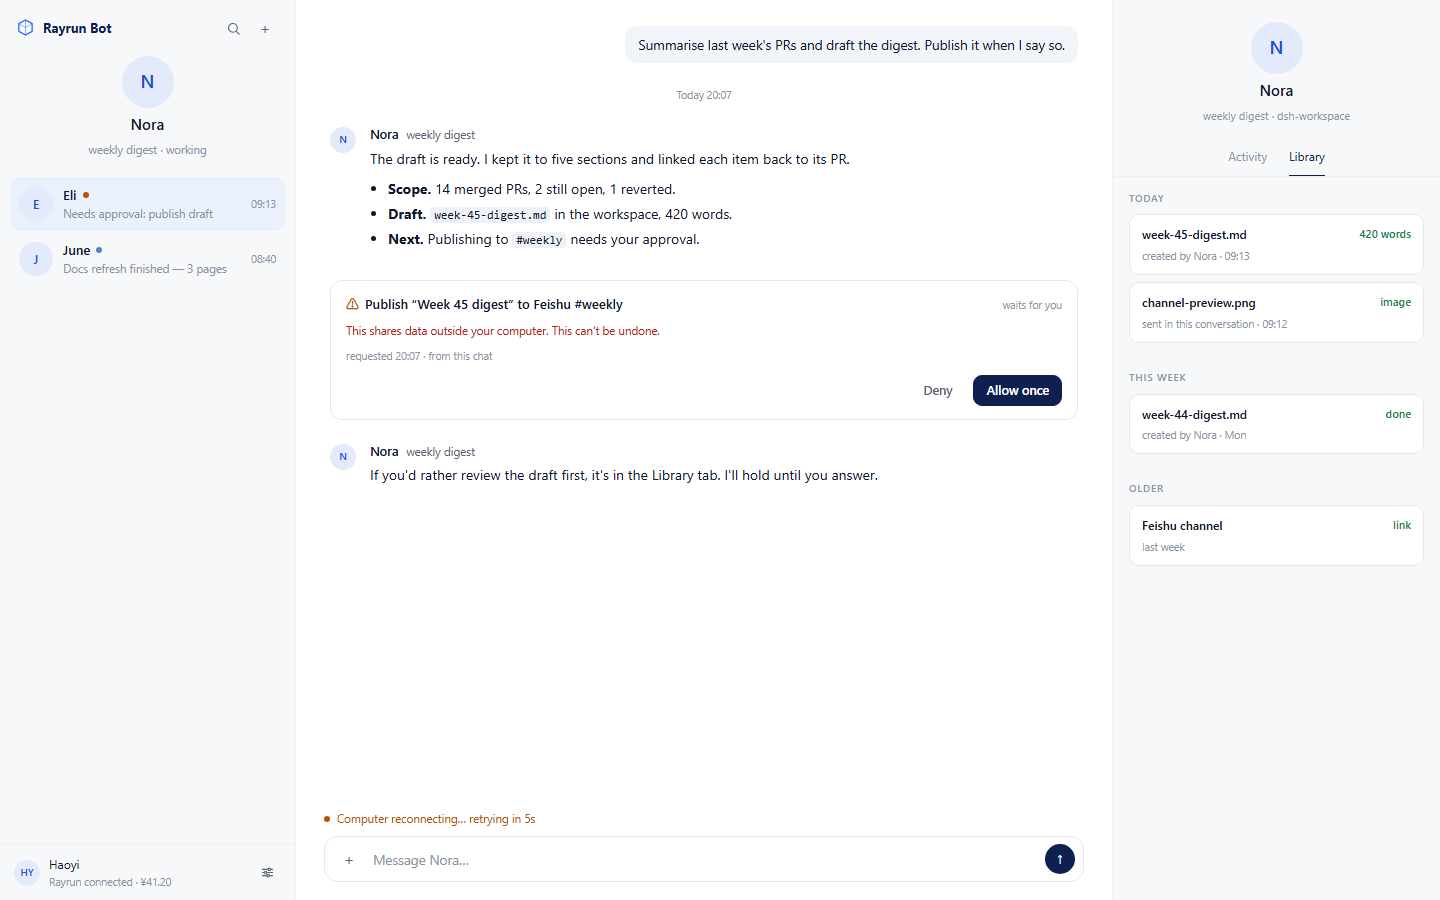
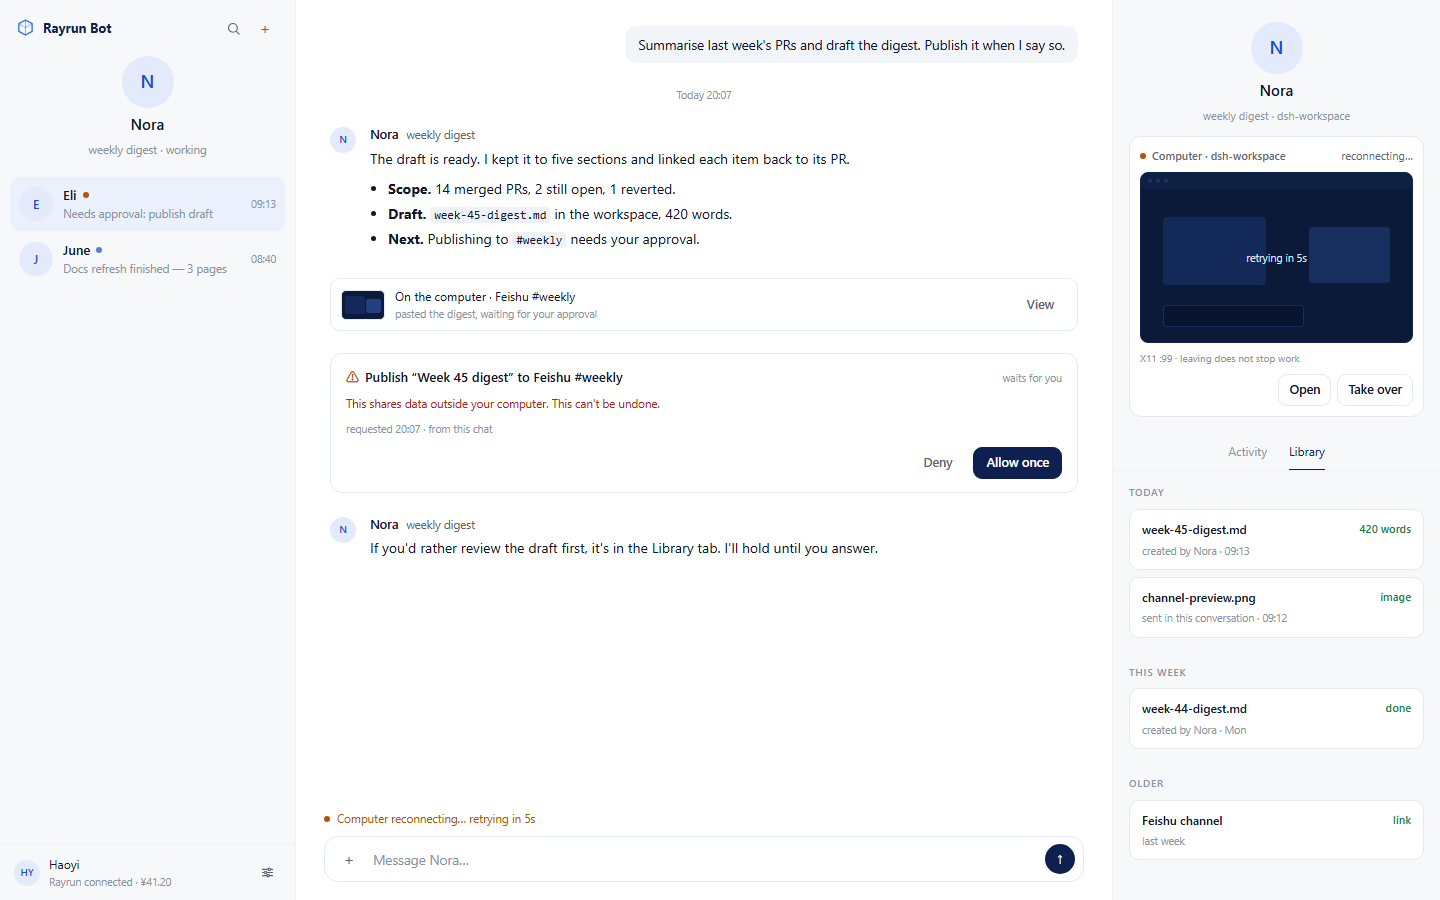
docs: make the bot's computer a first-class surface in the UI

diff --git a/docs/mockups/index.html b/docs/mockups/index.html
@@ -115,6 +115,23 @@
   .tabs { display: flex; justify-content: center; gap: 22px; border-bottom: 1px solid var(--border-soft); padding: 4px 16px 0; }
   .tab { border: 0; background: transparent; color: var(--faint); font-size: 12px; padding: 7px 0 9px; border-bottom: 1.5px solid transparent; }
   .tab.active { color: #0e2050; border-bottom-color: var(--accent); }
+  .computer-big { margin: 0 16px 14px; border: 1px solid var(--border); background: var(--card); border-radius: var(--radius); padding: 10px; display: grid; gap: 8px; }
+  .computer-big .cb-head { display: flex; align-items: center; justify-content: space-between; font-size: 11px; color: var(--muted); }
+  .computer-big .cb-head .l { display: flex; align-items: center; gap: 6px; font-weight: 550; }
+  .computer-big .screen { position: relative; aspect-ratio: 16 / 10; background: #0b1b3a; border-radius: 8px; overflow: hidden; border: 1px solid #12234d; }
+  .computer-big .screen .bar { height: 16px; display: flex; align-items: center; gap: 4px; padding: 0 7px; background: #12234d; }
+  .computer-big .screen .bar i { width: 4px; height: 4px; border-radius: 50%; background: #2c4a86; }
+  .computer-big .screen .w1 { position: absolute; left: 8%; top: 26%; width: 38%; height: 40%; border-radius: 4px; background: #1b3572; }
+  .computer-big .screen .w2 { position: absolute; right: 8%; top: 32%; width: 30%; height: 33%; border-radius: 4px; background: #22407f; }
+  .computer-big .screen .term { position: absolute; left: 8%; bottom: 9%; width: 52%; height: 13%; border-radius: 3px; background: #081229; border: 1px solid #233f7a; }
+  .computer-big .screen .overlay { position: absolute; inset: 0; display: grid; place-items: center; color: #dbe4fb; font-size: 10.5px; background: rgba(11, 27, 58, .45); }
+  .computer-big .cb-foot { display: grid; gap: 8px; }
+  .computer-big .cb-foot .meta { color: var(--faint); font-size: 10px; }
+  .computer-big .acts { display: flex; gap: 6px; justify-content: flex-end; }
+  .computer-big .acts .btn { padding: 5px 10px; white-space: nowrap; }
+  .computer-act { display: grid; grid-template-columns: 44px 1fr auto; gap: 10px; align-items: center; border: 1px solid var(--border); background: var(--card); border-radius: 10px; padding: 8px 10px; max-width: 760px; width: 100%; align-self: center; }
+  .computer-act .t { font-size: 12px; }
+  .computer-act .s { color: var(--faint); font-size: 10.5px; }
   .sections { padding: 14px 16px 24px; display: grid; gap: 20px; }
   .sec h3 { margin: 0 0 8px; color: var(--faint); font-size: 10px; font-weight: 500; letter-spacing: .08em; text-transform: uppercase; }
   .act { background: var(--card); border: 1px solid var(--border); border-radius: 10px; padding: 10px 12px; display: grid; gap: 4px; margin-bottom: 7px; }
@@ -239,6 +256,12 @@
         </div>
       </div>
 
+      <div class="computer-act">
+        <div class="thumb"></div>
+        <div><div class="t">On the computer · Feishu #weekly</div><div class="s">pasted the digest, waiting for your approval</div></div>
+        <button class="btn ghost">View</button>
+      </div>
+
       <div class="card">
         <div class="top">
           <span class="title"><span class="warn">⚠</span>Publish “Week 45 digest” to Feishu #weekly</span>
@@ -277,6 +300,22 @@
       <div class="name">Nora</div>
       <div class="sub">weekly digest · dsh-workspace</div>
     </div>
+
+    <div class="computer-big">
+      <div class="cb-head"><span class="l"><span class="dot needs"></span>Computer · dsh-workspace</span><span>reconnecting…</span></div>
+      <div class="screen">
+        <div class="bar"><i></i><i></i><i></i></div>
+        <div class="w1"></div>
+        <div class="w2"></div>
+        <div class="term"></div>
+        <div class="overlay">retrying in 5s</div>
+      </div>
+      <div class="cb-foot">
+        <span class="meta">X11 :99 · leaving does not stop work</span>
+        <div class="acts"><button class="btn">Open</button><button class="btn">Take over</button></div>
+      </div>
+    </div>
+
     <div class="tabs">
       <button class="tab active" data-tab="activity">Activity</button>
       <button class="tab" data-tab="library">Library</button>
@@ -315,19 +354,6 @@
         </div>
       </div>
 
-      <div class="sec">
-        <h3>Computer</h3>
-        <div class="computer">
-          <div class="row">
-            <div class="thumb"></div>
-            <div><div class="nm">dsh-workspace</div><div class="st">reconnecting…</div></div>
-          </div>
-          <div class="acts">
-            <button class="btn">Open</button>
-            <button class="btn">Take over</button>
-          </div>
-        </div>
-      </div>
 
       <div class="sec">
         <h3>Usage</h3>

diff --git a/docs/ui-design.md b/docs/ui-design.md
@@ -83,12 +83,16 @@ Column widths: 296 px / flexible / 328 px. The details column collapses below
 - Approval and draft blocks are the only cards: thin border, white surface, one
   warning line, `Deny` / `Allow once`, and a metadata line (`requested 20:07 ·
   from this chat`).
+- **Computer activity.** A thin row with a mini screen — `On the computer · Feishu #weekly — pasted the digest, waiting for approval` and a `View` button.
 - Notices sit above the composer as one line with a dot.
 - Composer: `+` attach, input, dark circular send.
 
 ### 2.3 Details panel
 
-Profile header (avatar, name, `job · computer`), then `Activity | Library` tabs.
+Profile header (avatar, name, `job · computer`), then the large **computer
+preview** — the biggest element in the panel: a live 16:10 screen, a state line
+(`live` / `reconnecting…` / `sleeping`) with a centered status overlay, `X11 :99`,
+and `Open` / `Take over`. Below it, the `Activity | Library` tabs.
 
 **Activity** sections:
 
@@ -96,13 +100,10 @@ Profile header (avatar, name, `job · computer`), then `Activity | Library` tabs
   artifact count and today's spend. A receipt is the "report back" surface.
 - **Upcoming** — routines: one row per routine with title, schedule and a toggle.
   v0.1 ships at most one routine (P1); the other rows illustrate the shape.
-- **Computer** — thumbnail, name, state (`live` / `reconnecting…` / `sleeping`),
-  `Open` and `Take over`.
 - **Usage** — balance, machine-hours, this week's spend, idle-stop policy.
 
 **Library** groups artifacts under Today / This week / Older; each row is a file,
 image or link with one muted subline. P1 in v0.1.
-
 ### 2.4 New bot
 
 The `+` opens a small form, not a wizard: monogram preview, **Name**, **Job, one
@@ -138,7 +139,7 @@ and RPC still expose the same list for future views.
 | Inline approval card with Deny / allow | `approvals-security-and-privacy.md:30-57` | `Deny` / `Allow once`; `Always allow` deferred to Auto Review (v0.2) |
 | Chat cards wait, background cards expire 30 min | `approvals-security-and-privacy.md:72-83` | copied via `origin` field |
 | Editable draft marked Needs approval | `chat-and-collaboration.md:89-107` | copied |
-| Computer preview with open/take over | `computer-and-apps.md:31-63` | copied into the details panel |
+| Computer preview with open/take over | `computer-and-apps.md:31-63` | large preview at the top of the details panel, plus computer activity rows in the conversation |
 | Attention states in the list | `settings-and-notifications.md:205-214` | dots: needs attention / unread / working |
 | Bot name, picture, job label; light persona | `bots.md:5-6,77-103`; [bot-persona.md](bot-persona.md) | copied; monogram avatar in v0.1 |
 | Voice chat, group chats, mobile, shared bots, marketplace, Vault, Auto Review | Grok Bot product surface | out of v0.1 (§8) |
@@ -160,7 +161,8 @@ Two anchors: the reference screenshot decides the layout (three columns, chat-li
 | `DetailsPanel` | right | C3 | profile, tabs |
 | `ReceiptCard` | activity | C3 | task, state, time, artifacts, spend |
 | `RoutineRow` | upcoming | C4 | title, schedule, toggle |
-| `ComputerCard` | details | C4 | state, thumbnail, open/take over |
+| `ComputerPreview` | details (top) | C4 | large live preview, state overlay, Open / Take over |
+| `ComputerActivityRow` | conversation | C3 | mini screen, what the bot is doing, View |
 | `UsageBlock` | details | C4 | balance, hours, week, idle stop |
 | `NewBotForm` | newbot | C2 | name, job, instructions, monogram |
 | `SetupWizard` | setup | C4 | four thin steps |

diff --git a/docs/client-plan.md b/docs/client-plan.md
@@ -25,7 +25,7 @@ voice: [bot-persona.md](bot-persona.md).*
 | --- | --- | --- | --- |
 | Chat list | left column | search, `+`, current bot, bot rows with latest snippet, time and attention dot | P0 |
 | Conversation | center column | markdown messages, day separators, inline approval/draft cards, composer | P0 |
-| Bot details panel | right column | profile, Activity/Library tabs, receipts, routines, computer, usage | P0 |
+| Bot details panel | right column | profile, large computer preview, Activity/Library tabs, receipts, routines, usage | P0 |
 | Inline approval cards | conversation | action, warning, origin and TTL; Deny / Allow once; attention dot in the chat list | P0 |
 | Onboarding wizard | own page | dependency check → Rayrun sign-in → DeepSeek key → computer + first bot | P0 |
 | Usage block | details panel + list footer | balance, machine hours, week spend, idle-stop policy, low-balance notice | P0 |
